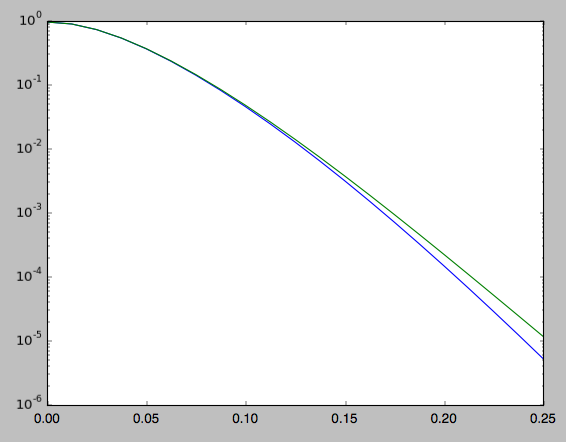
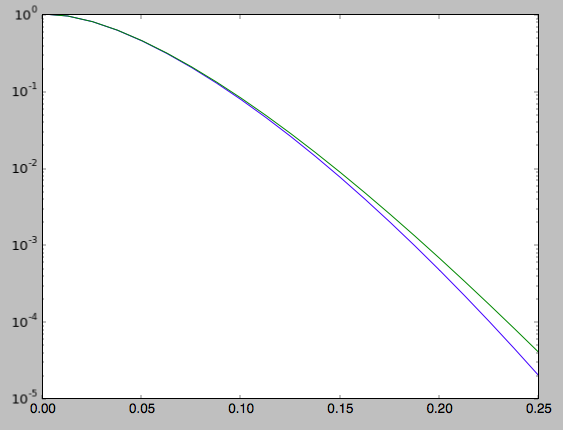
replace MWPotential w/ MWPotential2014 in the diskdf part of the tutorial, #180

Changed region(s): [[0.0, 0.0, 0.9964, 0.9674], [0.3321, 0.1512, 0.3623, 0.1814]]

diff --git a/doc/source/diskdf.rst b/doc/source/diskdf.rst
@@ -30,17 +30,17 @@ the radial and vertical velocity dispersion as a function of
 radius. In addition, we have to provide an instance of a
 ``galpy.actionAngle`` class to calculate the actions for a given
 position and velocity. For example, for a
-``galpy.potential.MWPotential`` potential using the adiabatic
+``galpy.potential.MWPotential2014`` potential using the adiabatic
 approximation for the actions, we import and define the following
 
->>> from galpy.potential import MWPotential
+>>> from galpy.potential import MWPotential2014
 >>> from galpy.actionAngle import actionAngleAdiabatic
 >>> from galpy.df import quasiisothermaldf
->>> aA= actionAngleAdiabatic(pot=MWPotential,c=True)
+>>> aA= actionAngleAdiabatic(pot=MWPotential2014,c=True)
 
 and then setup the ``quasiisothermaldf`` instance
 
->>> qdf= quasiisothermaldf(1./3.,0.2,0.1,1.,1.,pot=MWPotential,aA=aA,cutcounter=True)
+>>> qdf= quasiisothermaldf(1./3.,0.2,0.1,1.,1.,pot=MWPotential2014,aA=aA,cutcounter=True)
 
 which sets up a DF instance with a radial scale length of
 :math:`R_0/3`, a local radial and vertical velocity dispersion of
@@ -57,15 +57,15 @@ parameters. We can estimate the DF's actual radial scale length near
 :math:`R_0` as
 
 >>> qdf.estimate_hr(1.)
-0.33843243662586048
+0.32908034635647182
 
 which is quite close to the input value of 1/3. Similarly, we can
 estimate the scale lengths of the dispersions squared
 
 >>> qdf.estimate_hsr(1.)
-1.1527209864858059
+1.1913935820372923
 >>> qdf.estimate_hsz(1.)
-1.0441867587783933
+1.0506918075359255
 
 The vertical profile is fully specified by the velocity dispersions
 and radial density / dispersion profiles under the assumption of
@@ -73,18 +73,18 @@ dynamical equilibrium. We can estimate the scale height of this DF at
 a given radius and height as follows
 
 >>> qdf.estimate_hz(1.,0.125)
-0.018715154050080292
+0.021389597757156088
 
 Near the mid-plane this vertical scale height becomes very large
 because the vertical profile flattens, e.g., 
 
 >>> qdf.estimate_hz(1.,0.125/100.)
-0.85435378664432149
+1.006386030587223
 
 or even
 
 >>> qdf.estimate_hz(1.,0.)
-128674.27506772846
+187649.98447377066
 
 which is basically infinity.
 
@@ -108,7 +108,7 @@ The mean rotational velocity has a more interesting dependence on
 position. Near the plane, this is the same as that calculated for a similar two-dimensional disk DF (see :ref:`dftwod-moments`)
 
 >>> qdf.meanvT(1.,0.)
-0.9150884078276913
+0.91988346380781227
 
 However, this value decreases as one moves further from the plane. The
 ``quasiisothermaldf`` allows us to calculate the average rotational
@@ -128,9 +128,9 @@ whether the radial and velocity dispersions at :math:`R_0` are close
 to their input values
 
 >>> numpy.sqrt(qdf.sigmaR2(1.,0.))
-0.20918647082092351
+0.20807112565801389
 >>> numpy.sqrt(qdf.sigmaz2(1.,0.))
-0.092564222527283468
+0.090453510526130904
 
 and they are pretty close. We can also calculate the mixed *R* and *z*
 moment, for example,
@@ -152,13 +152,13 @@ we can model this coupling better. Setting up a ``quasiisothermaldf``
 instance with the Staeckel approximation
 
 >>> from galpy.actionAngle import actionAngleStaeckel
->>> aAS= actionAngleStaeckel(pot=MWPotential,delta=0.55,c=True)
->>> qdfS= quasiisothermaldf(1./3.,0.2,0.1,1.,1.,pot=MWPotential,aA=aAS,cutcounter=True)
+>>> aAS= actionAngleStaeckel(pot=MWPotential2014,delta=0.45,c=True)
+>>> qdfS= quasiisothermaldf(1./3.,0.2,0.1,1.,1.,pot=MWPotential2014,aA=aAS,cutcounter=True)
 
 we can similarly calculate the tilt
 
 >>> qdfS.tilt(1.,0.125)
-5.4669442080366721
+5.9096430410862419
 
 or about 5 degrees. As a function of height, we find
 
@@ -217,7 +217,7 @@ Evaluating and sampling the full probability distribution function
 We can evaluate the distribution itself by calling the object, e.g.,
 
 >>> qdf(1.,0.1,1.1,0.1,0.) #input: R,vR,vT,z,vz
-array([ 10.16445158])
+array([ 16.86790643])
 
 or as a function of rotational velocity, for example in the mid-plane
 
@@ -235,13 +235,15 @@ vertical velocities. We can calculate the distribution of rotational
 velocities marginalized over the radial and vertical velocities as
 
 >>> qdfS.pvT(1.,1.,0.) #input vT,R,z
-15.464330302557528
+14.677231196899195
 
 or as a function of rotational velocity
 
 >>> pvt= numpy.array([qdfS.pvT(vt,1.,0.) for vt in vts])
 
 overplotting this over the previous distribution gives
+
+>>> plot(vts,pvt/numpy.sum(pvt)/(vts[1]-vts[0]))
 
 .. image:: images/qdf-pvt.png
 
